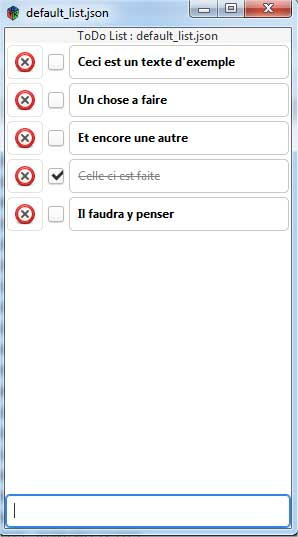
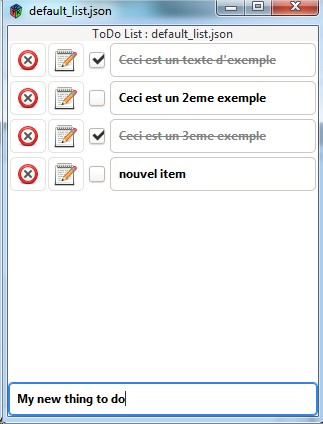
Better CSS management Button for editing thing Update screenshot

Changed region(s): [[0.0, 0.0, 1.0, 1.0]]

diff --git a/todo.go b/todo.go
@@ -3,9 +3,9 @@ package main
 import (
 	"encoding/json"
 	"fmt"
+	//"github.com/davecgh/go-spew/spew"
 	"github.com/gotk3/gotk3/gdk"
 	"github.com/gotk3/gotk3/gtk"
-	//"github.com/davecgh/go-spew/spew"
 	"io/ioutil"
 	"os"
 	"strconv"
@@ -39,7 +39,12 @@ const css = `
 	text-decoration:line-through;
 	font-weight:normal;
 }
-.notdone {
+
+.beingEdited {
+	background-color:lightgrey;
+}
+
+entry {
 	color:black;
 	text-decoration:none;
 	font-weight:bold;
@@ -70,7 +75,6 @@ func main() {
 	win.SetTitle(config.CurrentList)
 
 	drawInterface()
-	loadEvents()
 
 	// load entries style
 	screen, _ := gdk.ScreenGetDefault()
@@ -90,6 +94,22 @@ func main() {
 	}
 	win.SetDefaultSize(config.Width, config.Height)
 	win.Move(config.Left, config.Top)
+
+	// events
+	entry.Connect("activate", func() {
+		s, _ := entry.GetText()
+		fmt.Printf("DEBUG : Add item '%s'\n", s)
+		todoList = append(todoList, &Todo{Text: s, Done: false})
+		addItemToListbox(len(todoList) - 1)
+		entry.SetText("")
+	})
+
+	// Window events
+	win.Connect("destroy", func() {
+		saveConfig()
+		saveTodoList()
+		gtk.MainQuit()
+	})
 
 	// Recursively show all widgets contained in this window.
 	win.ShowAll()
@@ -114,8 +134,16 @@ func addItemToListbox(id int) {
 	btn_delete.SetImage(deleteIcon)
 	btn_delete.SetName("Delete_" + id_string)
 	btn_delete.SetTooltipText("Delete this thing")
-	btn_delete.SetMarginEnd(5)
-	//registerWidget(btn_delete)
+	btn_delete.SetMarginEnd(2)
+
+	// create a delete button
+	editIcon, _ := gtk.ImageNew()
+	editIcon.SetFromIconName("accessories-text-editor", gtk.ICON_SIZE_LARGE_TOOLBAR)
+	btn_edit, _ := gtk.ButtonNew()
+	btn_edit.SetImage(editIcon)
+	btn_edit.SetName("Edit_" + id_string)
+	btn_edit.SetTooltipText("Edit this thing")
+	btn_edit.SetMarginEnd(5)
 
 	// create a check button
 	checkbutton, _ := gtk.CheckButtonNew()
@@ -123,57 +151,31 @@ func addItemToListbox(id int) {
 	checkbutton.SetTooltipText("Check as done")
 	checkbutton.SetName("Check_" + id_string)
 	checkbutton.SetMarginEnd(5)
-	//registerWidget(checkbutton)
 
 	// create an entry
 	entry, _ := gtk.EntryNew()
 	entry.SetText(todoList[id].Text)
 	entry.SetName("Entry_" + id_string)
+	entry.SetEditable(false)
 	registerWidget(entry) // to use getWidgetByName(string) later
 
 	// add style to entry
-	styleContext, _ := entry.GetStyleContext()
-	if todoList[id].Done {
-		styleContext.RemoveClass("notdone")
-		styleContext.AddClass("done")
-	} else {
-		styleContext.RemoveClass("done")
-		styleContext.AddClass("notdone")
-	}
+	chooseClassDone(entry, todoList[id].Done)
 
+	// add elemenbt to line
 	boxContainer.Add(btn_delete)
+	boxContainer.Add(btn_edit)
 	boxContainer.Add(checkbutton)
 	boxContainer.PackEnd(entry, true, true, 0)
 
+	// add line to list row
 	item.Add(boxContainer)
 
+	// add list row to listbox and display it
 	listbox.Insert(item, -1)
 	listbox.ShowAll()
 
-	entry.Connect("key-press-event", func(elm *gtk.Entry) {
-		elm_name, _ := elm.GetName()
-		id, _ := strconv.Atoi(strings.Split(elm_name, "_")[1])
-		s, _ := elm.GetText()
-		todoList[id].Text = s
-	})
-
-	checkbutton.Connect("clicked", func(elm *gtk.CheckButton) {
-		elm_name, _ := elm.GetName()
-		id, _ := strconv.Atoi(strings.Split(elm_name, "_")[1])
-		todoList[id].Done = !todoList[id].Done
-
-		// invert style
-		widget, _ := getWidgetByName("Entry_" + strconv.Itoa(id))
-		styleContext, _ := widget.GetStyleContext()
-		if todoList[id].Done {
-			styleContext.RemoveClass("notdone")
-			styleContext.AddClass("done")
-		} else {
-			styleContext.RemoveClass("done")
-			styleContext.AddClass("notdone")
-		}
-	})
-
+	// events
 	btn_delete.Connect("clicked", func(elm *gtk.Button) {
 		elm_name, _ := elm.GetName()
 		id, _ := strconv.Atoi(strings.Split(elm_name, "_")[1])
@@ -182,24 +184,40 @@ func addItemToListbox(id int) {
 		clearListGui()
 		buildListGui()
 	})
-}
 
-func loadEvents() {
-	// widget events
-
-	entry.Connect("activate", func() {
-		s, _ := entry.GetText()
-		fmt.Printf("DEBUG : Add item '%s'\n", s)
-		todoList = append(todoList, &Todo{Text: s, Done: false})
-		addItemToListbox(len(todoList) - 1)
-		entry.SetText("")
+	btn_edit.Connect("clicked", func(elm *gtk.Button) {
+		elm_name, _ := elm.GetName()
+		id, _ := strconv.Atoi(strings.Split(elm_name, "_")[1])
+		fmt.Printf("DEBUG : Edit element %d\n", id)
+		widget, _ := getWidgetByName("Entry_" + strconv.Itoa(id))
+		widget.(*gtk.Entry).SetEditable(true)
+		chooseClassBeingEdited(widget.(*gtk.Entry), true)
 	})
 
-	// Window events
-	win.Connect("destroy", func() {
-		saveConfig()
-		saveTodoList()
-		gtk.MainQuit()
+	checkbutton.Connect("clicked", func(elm *gtk.CheckButton) {
+		elm_name, _ := elm.GetName()
+		id, _ := strconv.Atoi(strings.Split(elm_name, "_")[1])
+		todoList[id].Done = !todoList[id].Done
+		fmt.Printf("DEBUG : Invert status of %d\n", id)
+
+		// invert style
+		widget, _ := getWidgetByName("Entry_" + strconv.Itoa(id))
+		chooseClassDone(widget.(*gtk.Entry), todoList[id].Done)
+	})
+
+	entry.Connect("key-press-event", func(elm *gtk.Entry, event *gdk.Event) {
+		//spew.Dump(event)
+		eventKey := gdk.EventKeyNewFromEvent(event)
+		key := eventKey.KeyVal()
+
+		if key == 65293 { // ENTER
+			elm_name, _ := elm.GetName()
+			id, _ := strconv.Atoi(strings.Split(elm_name, "_")[1])
+			s, _ := elm.GetText()
+			todoList[id].Text = s
+			elm.SetEditable(false)
+			chooseClassBeingEdited(elm, false)
+		}
 	})
 }
 
@@ -275,16 +293,15 @@ func readTodoList() {
 	if _, err := os.Stat(config.CurrentList); err == nil {
 		file, _ := ioutil.ReadFile(config.CurrentList)
 		json.Unmarshal([]byte(file), &todoList)
-		fmt.Printf("DEBUG : read config file\n")
+		fmt.Printf("DEBUG : read todo list\n")
 	}
 
 	// for debug
-	/*	todoList = nil
-		todoList = append(todoList, &Todo{Text: "Ceci est un texte d'exemple", Done: true})
-		todoList = append(todoList, &Todo{Text: "Ceci est un 2eme exemple", Done: false})
-		todoList = append(todoList, &Todo{Text: "Ceci est un 3eme exemple", Done: true})
+	/*todoList = nil
+	todoList = append(todoList, &Todo{Text: "Ceci est un texte d'exemple", Done: true})
+	todoList = append(todoList, &Todo{Text: "Ceci est un 2eme exemple", Done: false})
+	todoList = append(todoList, &Todo{Text: "Ceci est un 3eme exemple", Done: true})
 	*/
-	fmt.Printf("DEBUG : read todo list\n")
 }
 
 func saveTodoList() {
@@ -311,4 +328,22 @@ func registerWidget(w Widget) {
 func getWidgetByName(n string) (val Widget, ok bool) {
 	val, ok = widgets[n]
 	return val, ok
+}
+
+func chooseClassDone(entry *gtk.Entry, done bool) {
+	styleContext, _ := entry.GetStyleContext()
+	if done {
+		styleContext.AddClass("done")
+	} else {
+		styleContext.RemoveClass("done")
+	}
+}
+
+func chooseClassBeingEdited(entry *gtk.Entry, beingEdited bool) {
+	styleContext, _ := entry.GetStyleContext()
+	if beingEdited {
+		styleContext.AddClass("beingEdited")
+	} else {
+		styleContext.RemoveClass("beingEdited")
+	}
 }
